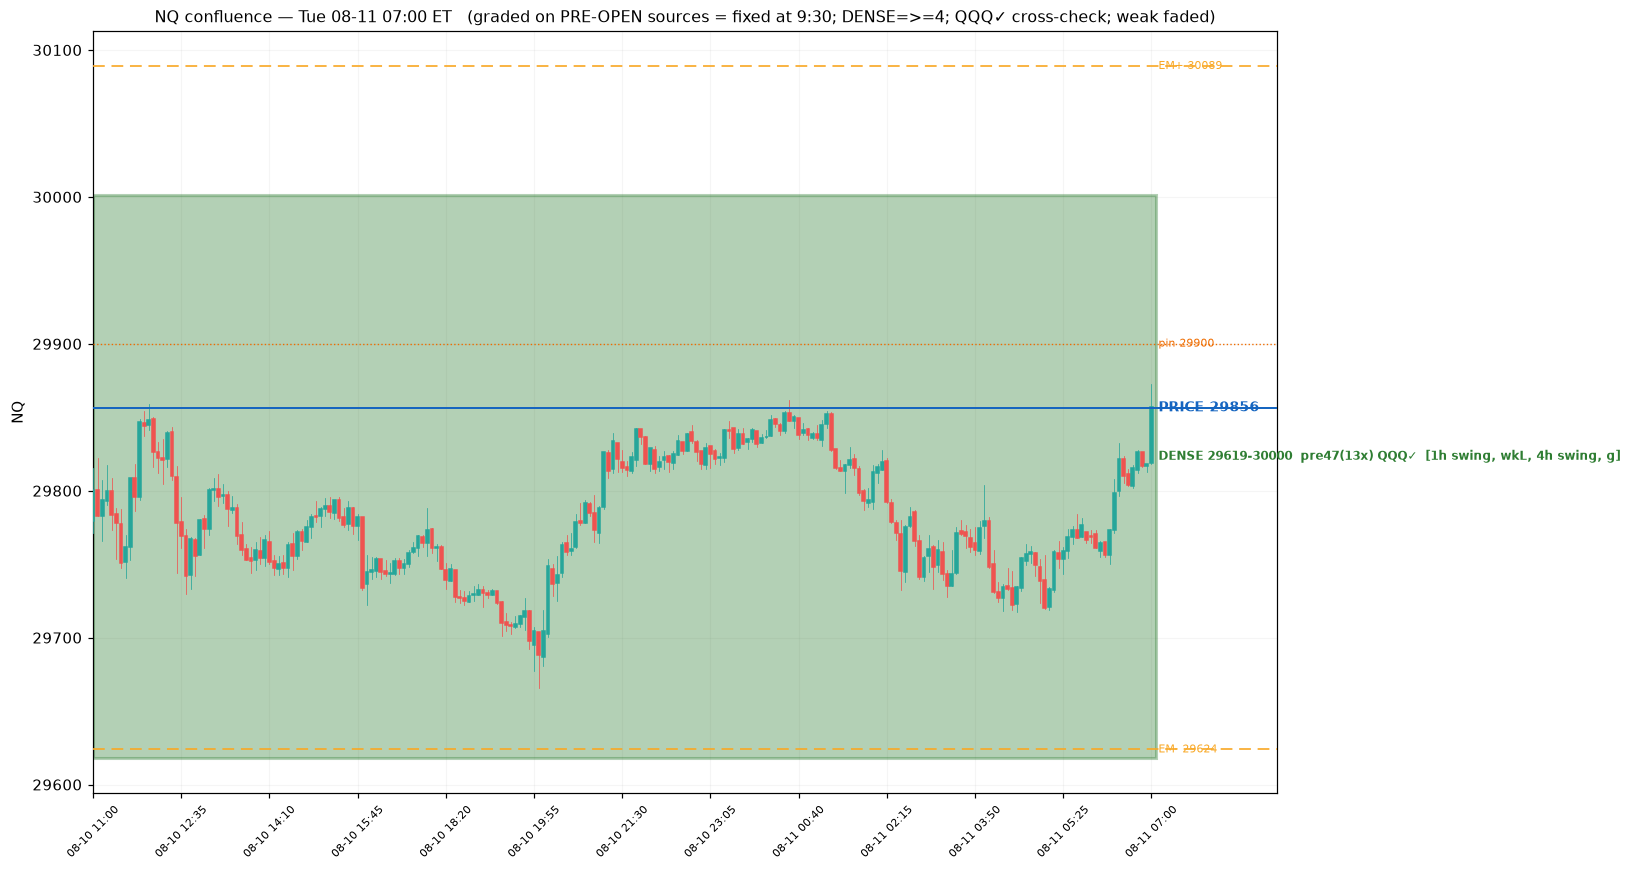
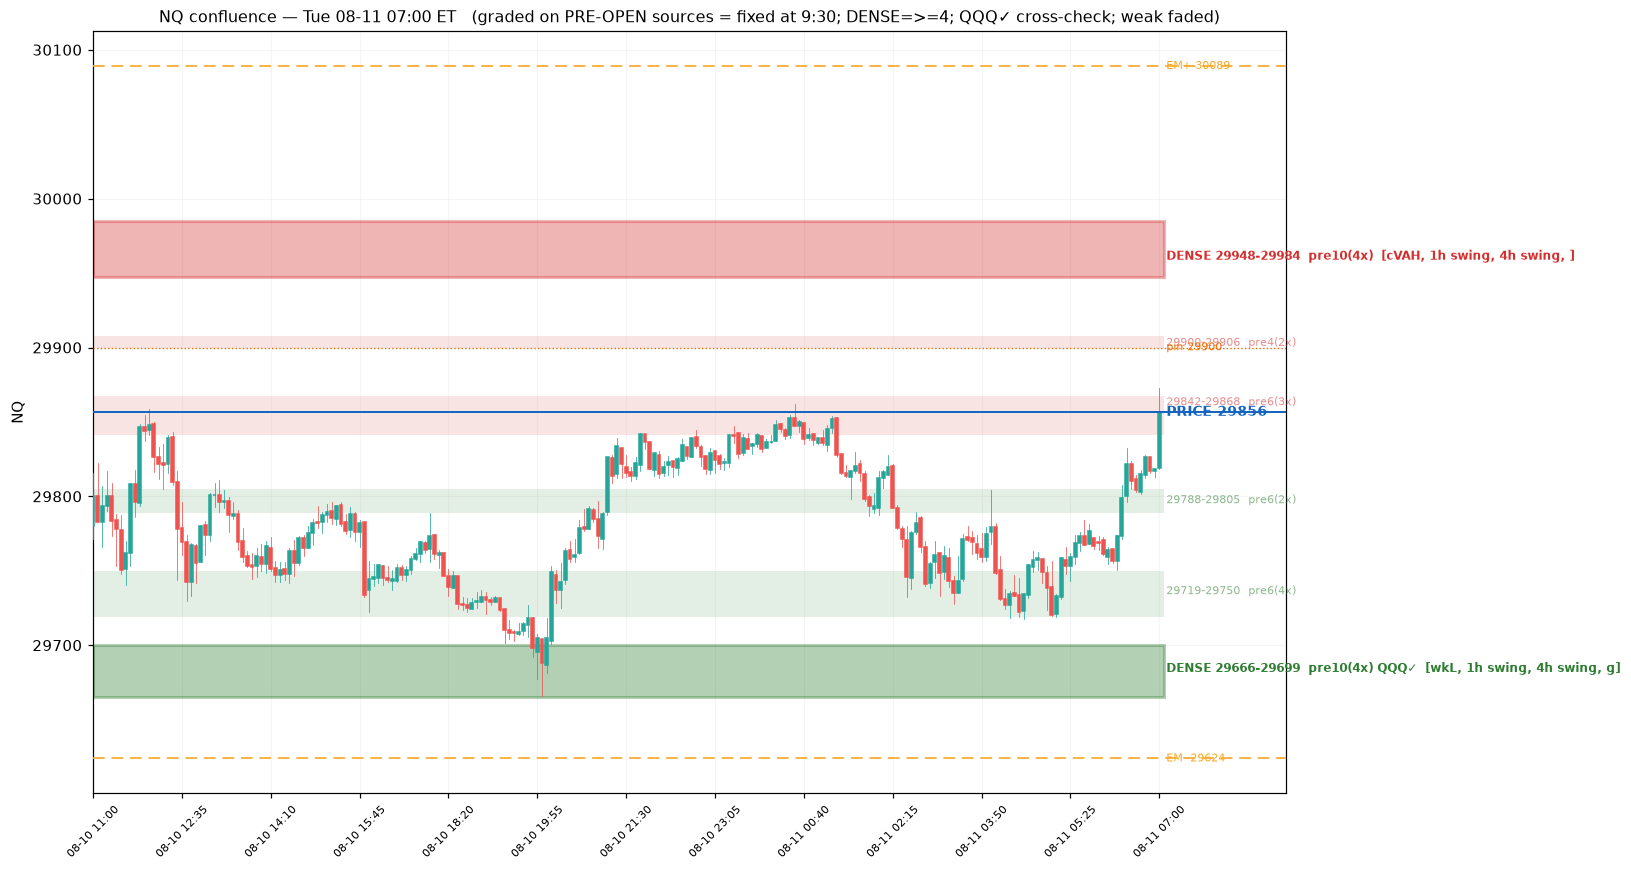
Fix confluence zone chaining: cap zone width so clusters stay tight
Zone builder merged each level whenever it was within tolerance of the
*previous* level, so a long chain of nearby levels daisy-chained into a
single 380-point 'zone' spanning the whole value area — useless as a
confluence level. Now a level joins a cluster only if it is near the
previous level AND the whole cluster stays within the tolerance width,
tightened to 0.0012*price (~36pt on NQ). Applied to both confluence.py
and backtest_confluence.py (the ToS box generator).

Claude-Session: https://claude.ai/code/session_01MtU3Ssqkeruamy1CfYgjMq

diff --git a/scripts/confluence.py b/scripts/confluence.py
@@ -106,11 +106,12 @@ def build_zones(m5, m30, h1, scale_pt=None, gamma=None):
         levels += [(ovah, "onVAH", 1.0), (oval, "onVAL", 1.0)]
     for p in round_numbers(px, round_step(px), 3):
         levels.append((p, "round", 1.0))
-    tol = scale_pt if scale_pt else 0.0018 * px
+    tol = scale_pt if scale_pt else 0.0012 * px   # merge gap AND max zone width (~36pt NQ)
     levels.sort()
     zones, cluster = [], [levels[0]]
     for lv in levels[1:]:
-        if lv[0] - cluster[-1][0] <= tol:
+        # join only if near the previous level AND the whole zone stays tight
+        if lv[0] - cluster[-1][0] <= tol and lv[0] - cluster[0][0] <= tol:
             cluster.append(lv)
         else:
             zones.append(cluster); cluster = [lv]

diff --git a/scripts/backtest_confluence.py b/scripts/backtest_confluence.py
@@ -127,10 +127,11 @@ def build(hist, prior_sess, bps):
                (float(prior_sess["low"].min()), "PDL", 2.0),
                (float(prior_sess["close"].iloc[-1]), "PDC", 1.5)]
     for p in round_numbers(px, round_step(px), 3): lv.append((p, "round", 1.0))
-    lv.sort(); tol = 0.0018 * px
+    lv.sort(); tol = 0.0012 * px          # merge gap AND max zone width (~36pt NQ)
     zones, cl = [], [lv[0]]
     for x in lv[1:]:
-        if x[0] - cl[-1][0] <= tol: cl.append(x)
+        # join only if near the previous level AND the whole zone stays tight
+        if x[0] - cl[-1][0] <= tol and x[0] - cl[0][0] <= tol: cl.append(x)
         else: zones.append(cl); cl = [x]
     zones.append(cl)
     out = []
